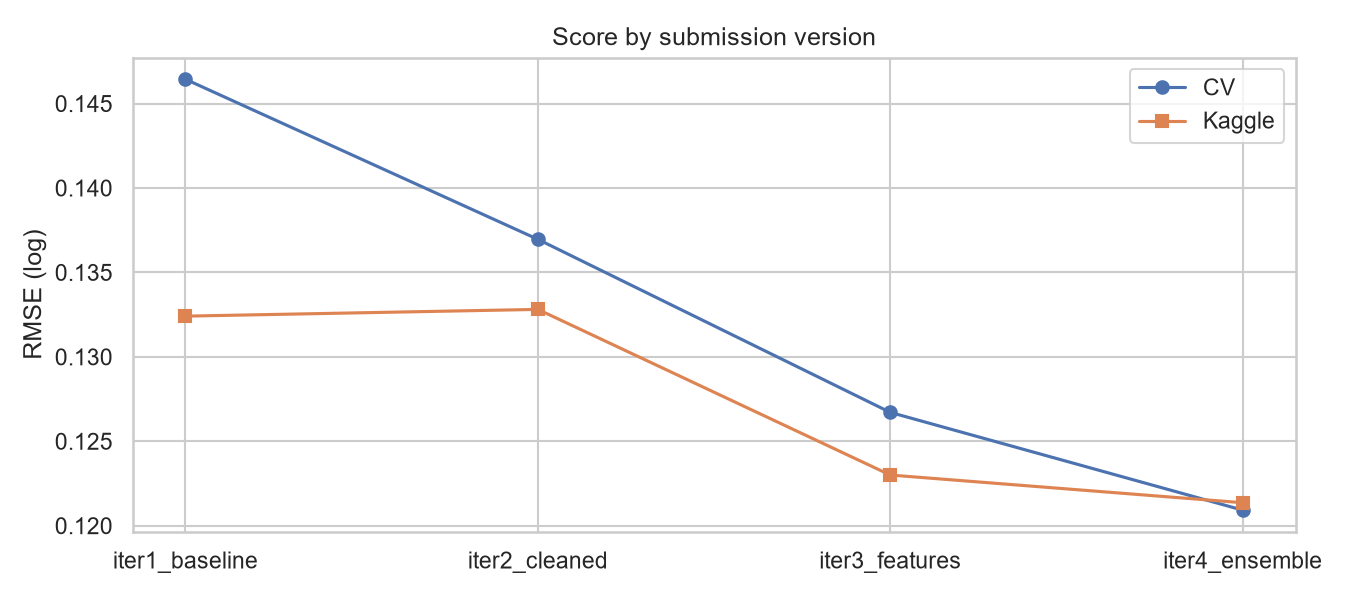
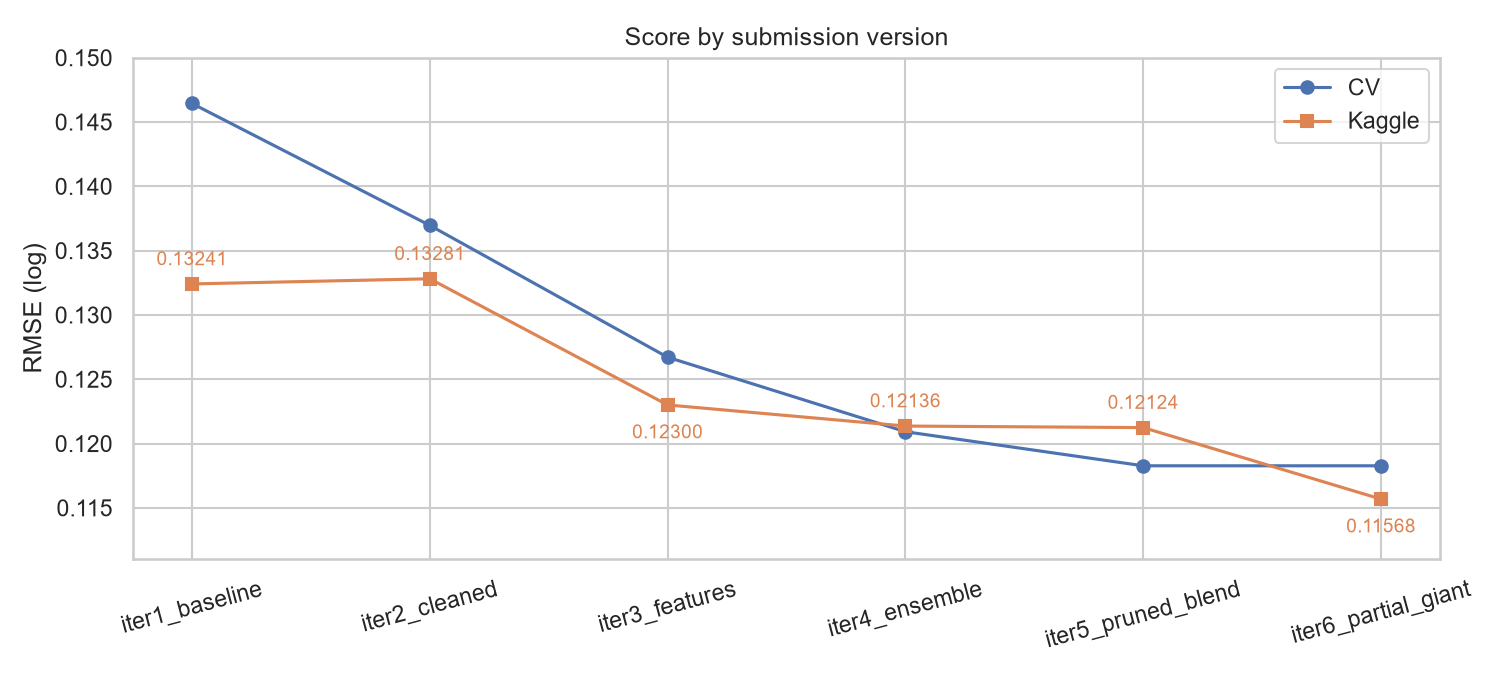
Update README and score chart for iter5-6

Changed region(s): [[0.0, 0.03, 0.9956, 0.96]]

diff --git a/README.md b/README.md
@@ -14,17 +14,16 @@ House-Prices-Prediction/
 │   └── 03_modeling.ipynb               B: run versions, compare models, tune, score chart
 ├── src/
 │   ├── config.py      paths and settings (switches automatically between local / Kaggle)
-│   ├── data.py        load data, remove outliers
+│   ├── data.py        load data, outlier masks
 │   ├── features.py    A: feature engineering steps
 │   ├── models.py      B: models, CV, blending
-│   ├── versions.py    B: experiment versions (iter1-4 submissions + CV-only breakdowns)
+│   ├── versions.py    B: experiment versions (iter1-6 submissions + CV-only breakdowns)
 │   └── pipeline.py    ties it together: run versions, write submissions, log scores, ablation
 ├── submissions/       generated submission files sub_iter1_baseline.csv ...
 ├── reports/
 │   ├── submission_log.csv   submission log (core of the report)
 │   ├── ablation_log.csv     ablation results
 │   └── figures/             all figures (for report/slides)
-├── docs/report_outline.md   outline for the report, video and individual questions
 └── run.py             command-line entry point
 ```
 
@@ -35,7 +34,7 @@ House-Prices-Prediction/
 | A | 1 & 2: data & cleaning | EDA, baseline, outliers, missing values; uploads iter1, iter2 | `notebooks/01`, `src/data.py`, cleaning steps in `src/features.py` |
 | B | 3 & 4: features & modeling | features, ablation, tuning, ensemble; uploads iter3, iter4 + screenshot | `notebooks/02`, `03`, feature steps in `src/features.py`, `src/models.py` |
 
-Full task list, handoffs and timeline: [docs/team_plan.md](docs/team_plan.md).
+The report itself is written in Google Docs.
 
 ## Setup
 
@@ -49,7 +48,7 @@ Then put the Kaggle data in `data/`.
 
 ## Experiment plan
 
-**Main line: 4 Kaggle submissions** (the video follows these 4 steps)
+**Main line: 6 Kaggle submissions** (the video follows these steps)
 
 | Submission | Data | Model | Shows |
 |---|---|---|---|
@@ -57,6 +56,8 @@ Then put the Kaggle data in `data/`.
 | `iter2_cleaned` | + remove 2 outliers + fill NA as None/0 by meaning | Ridge | effect of data cleaning |
 | `iter3_features` | + ordinal encoding, new features (TotalSF...), skew fix | Ridge | effect of feature engineering |
 | `iter4_ensemble` | same as iter3 | Ridge + Lasso + ElasticNet + GBR average | effect of better/combined models |
+| `iter5_pruned_blend` | iter3 minus ordinal encoding and interactions (ablation showed they hurt) | Lasso + GBR + XGBoost + SVR average | feature pruning + a more diverse blend |
+| `iter6_partial_giant` | same as iter5; test houses >4000 sq ft sold as Partial priced by $/sq ft of the 2 matching train outliers | same as iter5 | fixing the one test house the model cannot price |
 
 **Breakdown: CV only, not submitted** (used in the report to show which step helped most)
 
@@ -66,6 +67,7 @@ Then put the Kaggle data in `data/`.
 | `iter2a_outliers_only` / `iter2b_missing_only` | the two changes in iter2 |
 | `python run.py iter3_features --ablate` | each feature step in iter3, removed one at a time |
 | `iter4a_lasso` / `iter4b_elasticnet` / `iter4c_gbr` | single models vs the blend |
+| `iter5a_pruned_iter4_blend` | effect of feature pruning alone (iter4 blend on iter5 features) |
 
 ## Usage
 
